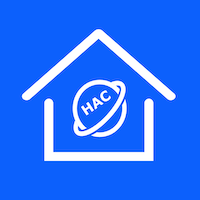
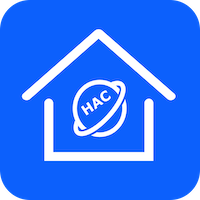
修改logo为圆角

diff --git a/README.md b/README.md
@@ -1,17 +1,17 @@
-# Website
+# HAC社区文档站
 
-This website is built using [Docusaurus 2](https://docusaurus.io/), a modern static website generator.
+HAC社区文档站使用[Docusaurus 2](https://docusaurus.io/)构建。
 
 ### Installation
 
 ```
-$ yarn
+$ npm install
 ```
 
 ### Local Development
 
 ```
-$ yarn start
+$ npm run start
 ```
 
 This command starts a local development server and opens up a browser window. Most changes are reflected live without having to restart the server.
@@ -19,15 +19,7 @@ This command starts a local development server and opens up a browser window. Mo
 ### Build
 
 ```
-$ yarn build
+$ npm build
 ```
 
 This command generates static content into the `build` directory and can be served using any static contents hosting service.
-
-### Deployment
-
-```
-$ GIT_USER=<Your GitHub username> USE_SSH=true yarn deploy
-```
-
-If you are using GitHub pages for hosting, this command is a convenient way to build the website and push to the `gh-pages` branch.
